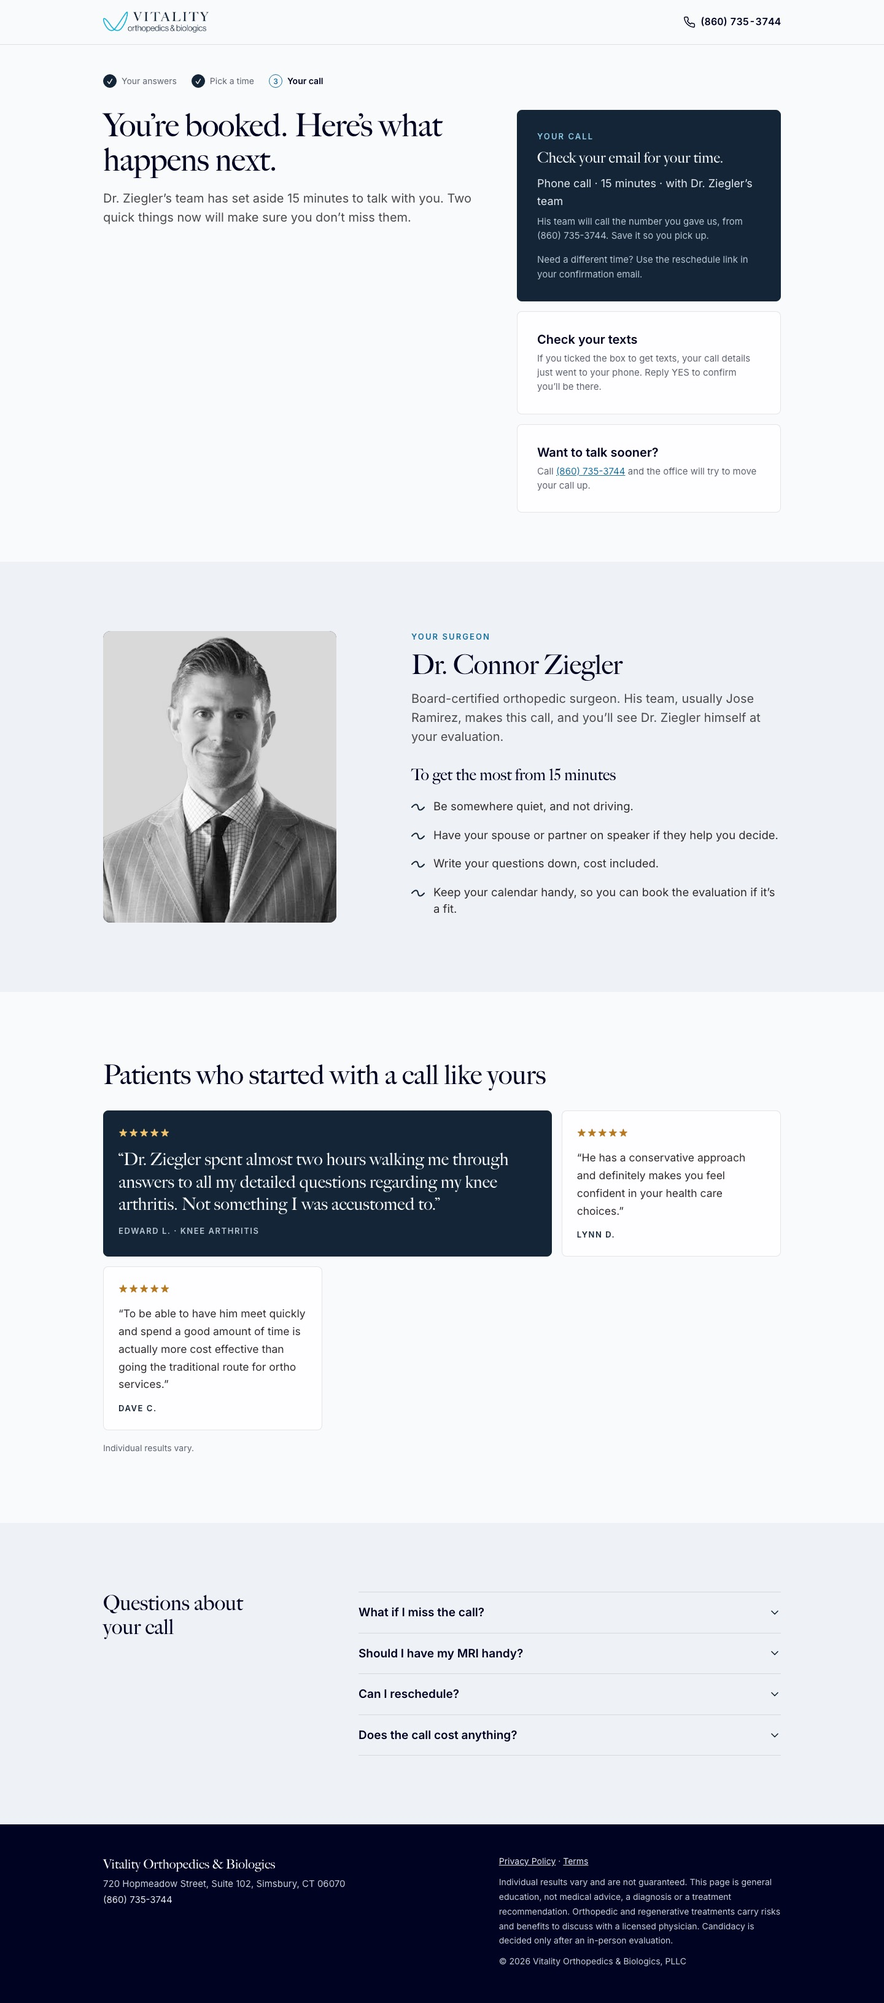
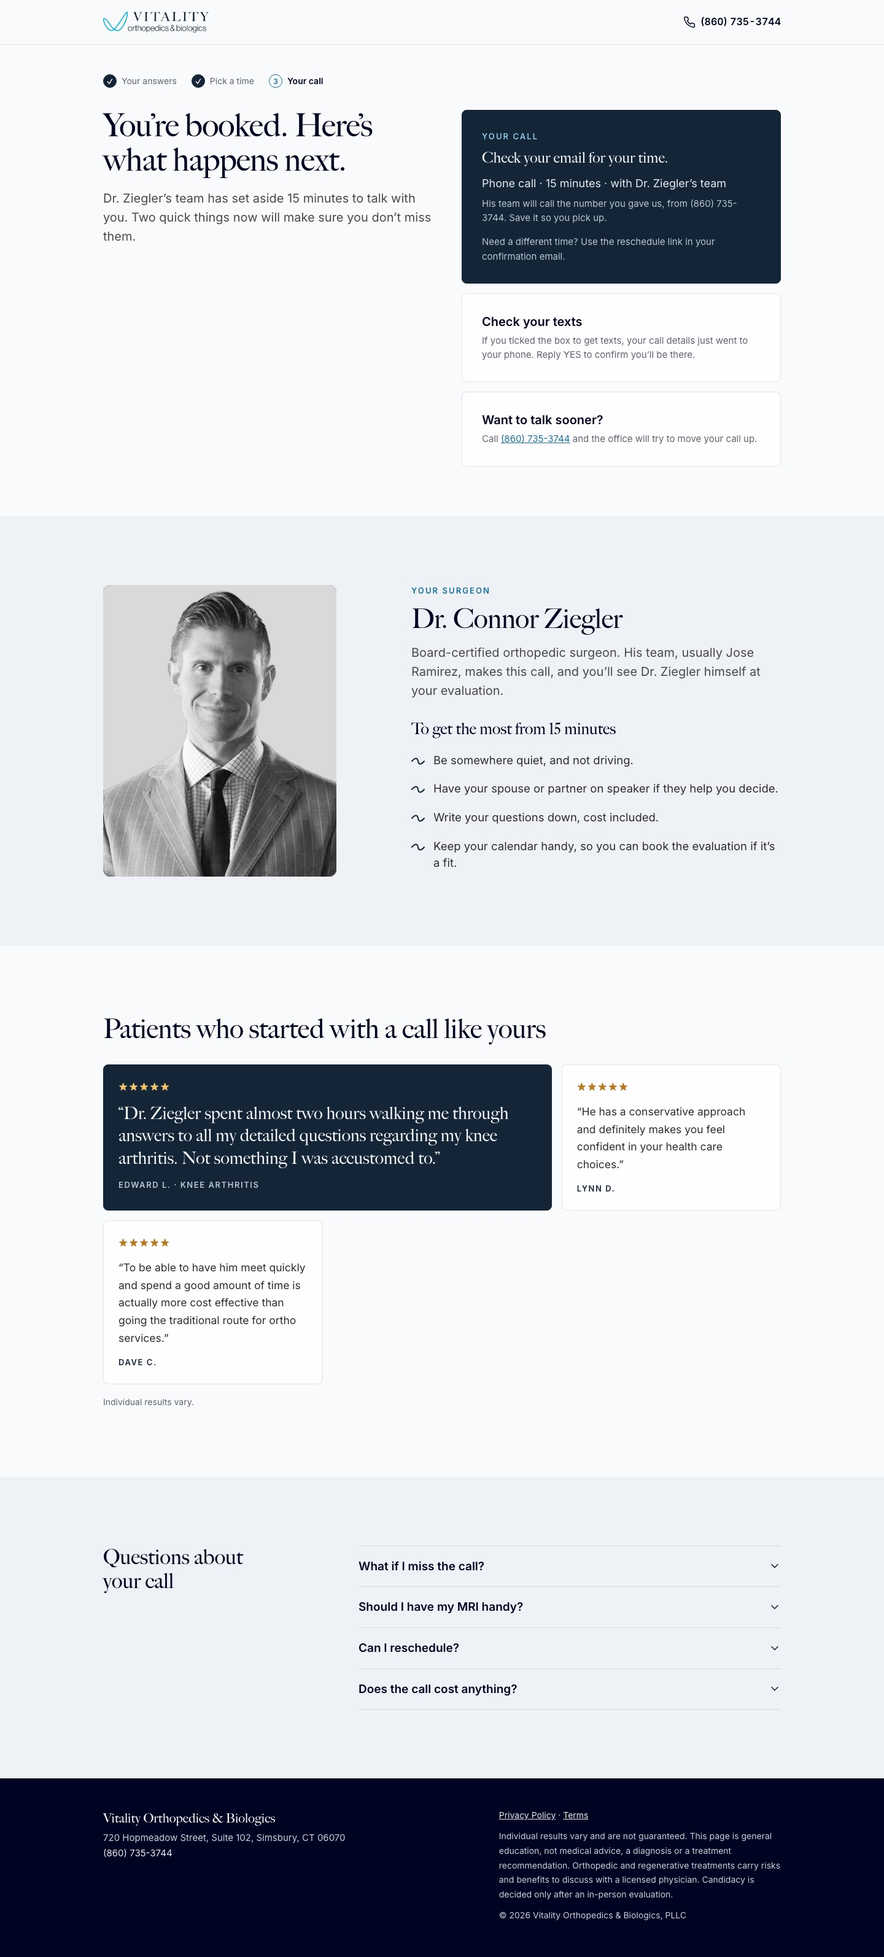
Review copy: matches what is now live
Survey cards and hero as rolled out in GHL: form up beside the headline, whole portrait,
wider survey with a visible progress bar. Same safety checks as before: no live widget,
tracker or webhook request, noindex on every page.

diff --git a/pages/vt-active-life.html b/pages/vt-active-life.html
@@ -172,9 +172,24 @@
   .vt2 .tbl td[data-l]::before{content:attr(data-l);display:block;font-size:12.5px;font-weight:600;letter-spacing:.12em;text-transform:uppercase;color:var(--muted)}
 }
 @media (prefers-reduced-motion:reduce){.vt2 *{transition:none!important;scroll-behavior:auto!important}}
+.vt2 .hero-copy{margin-bottom:clamp(28px,3.2vw,40px)}
+.vt2 #top > .wrap > .split{align-items:flex-start;flex-wrap:nowrap;gap:clamp(32px,4vw,48px)}
+.vt2 #top > .wrap > .split > .c7{flex:1 1 0;min-width:0}
+.vt2 #top > .wrap > .split > .c5{flex:0 0 520px;min-width:0;position:sticky;top:96px}
+.vt2 #top .media:not(:has(.play,video,iframe)){aspect-ratio:1380/1542}
 .vt2 .media:not(:has(.play,video,iframe)){aspect-ratio:4/3}
-.vt2 .media:not(:has(.play,video,iframe)) img{object-position:50% 12%}
-.vt2 #check .c7 > .card{max-width:460px}
+.vt2 .media:not(:has(.play,video,iframe)) img{object-position:50% 14%}
+.vt2 #check .c7 > .card{max-width:520px}
+.vt2 [data-survey] .embed iframe{min-height:380px}
+@media (max-width:980px){
+  .vt2 #top > .wrap > .split{flex-direction:column;flex-wrap:nowrap;align-items:stretch;gap:0}
+  .vt2 #top > .wrap > .split > .c7{display:contents}
+  .vt2 #top > .wrap > .split > .c7 > .hero-copy{order:0;margin-bottom:0}
+  .vt2 #top > .wrap > .split > .c7 > figure{order:2;width:100%;margin:32px 0 0}
+  .vt2 #top > .wrap > .split > .c5{order:1;flex:none;width:100%;max-width:520px;margin:28px auto 0;position:static}
+  .vt2 #top .media:not(:has(.play,video,iframe)){max-width:520px;margin-left:auto;margin-right:auto}
+  .vt2 #check .c7 > .card{margin-left:auto;margin-right:auto}
+}
 </style>
 <div class="vt2" id="vt2-1">
 <header class="hdr">
@@ -188,13 +203,13 @@
 </header>
 <section id="top" style="padding:clamp(36px,5vw,64px) 0 clamp(40px,5vw,64px)">
 <div class="wrap">
-<p class="eyebrow">Regenerative knee and shoulder care · Simsbury, CT</p>
+<div class="split" style="margin-top:clamp(28px,4vw,44px);align-items:flex-start">
+<div class="c7">
+<div class="hero-copy"><p class="eyebrow">Regenerative knee and shoulder care · Simsbury, CT</p>
 <p class="serif pre" style="margin-top:16px" data-v="pre">Tried physical therapy and cortisone, and still hurting?</p>
 <h1 class="serif h1" style="margin-top:10px;max-width:24ch" data-v="h1">Relief from knee and shoulder pain, without surgery.</h1>
 <p class="lede" style="margin-top:20px" data-ifvideo>Dr. Connor Ziegler is a board-certified orthopedic surgeon who treats knees and shoulders both ways, with surgery and without it. Watch him explain his non-surgical care, then see if you’re likely a candidate.</p>
-<p class="lede" style="margin-top:20px" data-novideo hidden>Dr. Connor Ziegler is a board-certified orthopedic surgeon who treats knees and shoulders both ways, with surgery and without it. So he can tell you whether you need an operation at all.</p>
-<div class="split" style="margin-top:clamp(28px,4vw,44px);align-items:flex-start">
-<div class="c7">
+<p class="lede" style="margin-top:20px" data-novideo hidden>Dr. Connor Ziegler is a board-certified orthopedic surgeon who treats knees and shoulders both ways, with surgery and without it. So he can tell you whether you need an operation at all.</p></div>
 <figure>
 <div class="media" data-video="Landing page, regen VSL (Google Doc “Vitality Orthopedics VSLs”)" data-poster="https://assets.cdn.filesafe.space/jiPCbKw8uU8D9i3iQhpb/media/6a7cc45f47c48355a534914c.jpg" data-alt="Dr. Connor Ziegler in his Simsbury office"></div>
 <figcaption class="tiny" style="margin-top:12px">Individual results vary.</figcaption>

diff --git a/pages/vt-move-freely.html b/pages/vt-move-freely.html
@@ -172,9 +172,24 @@
   .vt2 .tbl td[data-l]::before{content:attr(data-l);display:block;font-size:12.5px;font-weight:600;letter-spacing:.12em;text-transform:uppercase;color:var(--muted)}
 }
 @media (prefers-reduced-motion:reduce){.vt2 *{transition:none!important;scroll-behavior:auto!important}}
+.vt2 .hero-copy{margin-bottom:clamp(28px,3.2vw,40px)}
+.vt2 #top > .wrap > .split{align-items:flex-start;flex-wrap:nowrap;gap:clamp(32px,4vw,48px)}
+.vt2 #top > .wrap > .split > .c7{flex:1 1 0;min-width:0}
+.vt2 #top > .wrap > .split > .c5{flex:0 0 520px;min-width:0;position:sticky;top:96px}
+.vt2 #top .media:not(:has(.play,video,iframe)){aspect-ratio:1380/1542}
 .vt2 .media:not(:has(.play,video,iframe)){aspect-ratio:4/3}
-.vt2 .media:not(:has(.play,video,iframe)) img{object-position:50% 12%}
-.vt2 #check .c7 > .card{max-width:460px}
+.vt2 .media:not(:has(.play,video,iframe)) img{object-position:50% 14%}
+.vt2 #check .c7 > .card{max-width:520px}
+.vt2 [data-survey] .embed iframe{min-height:380px}
+@media (max-width:980px){
+  .vt2 #top > .wrap > .split{flex-direction:column;flex-wrap:nowrap;align-items:stretch;gap:0}
+  .vt2 #top > .wrap > .split > .c7{display:contents}
+  .vt2 #top > .wrap > .split > .c7 > .hero-copy{order:0;margin-bottom:0}
+  .vt2 #top > .wrap > .split > .c7 > figure{order:2;width:100%;margin:32px 0 0}
+  .vt2 #top > .wrap > .split > .c5{order:1;flex:none;width:100%;max-width:520px;margin:28px auto 0;position:static}
+  .vt2 #top .media:not(:has(.play,video,iframe)){max-width:520px;margin-left:auto;margin-right:auto}
+  .vt2 #check .c7 > .card{margin-left:auto;margin-right:auto}
+}
 </style>
 <div class="vt2" id="vt2-1">
 <header class="hdr">
@@ -188,13 +203,13 @@
 </header>
 <section id="top" style="padding:clamp(36px,5vw,64px) 0 clamp(40px,5vw,64px)">
 <div class="wrap">
-<p class="eyebrow">Non-surgical knee and shoulder care · Simsbury, CT</p>
+<div class="split" style="margin-top:clamp(28px,4vw,44px);align-items:flex-start">
+<div class="c7">
+<div class="hero-copy"><p class="eyebrow">Non-surgical knee and shoulder care · Simsbury, CT</p>
 <p class="serif pre" style="margin-top:16px" data-v="pre">Tried physical therapy and cortisone, and still hurting?</p>
 <h1 class="serif h1" style="margin-top:10px;max-width:24ch" data-v="h1">Relief from knee and shoulder pain, without surgery.</h1>
 <p class="lede" style="margin-top:20px" data-ifvideo>Dr. Connor Ziegler is a board-certified orthopedic surgeon who treats knees and shoulders both ways, with surgery and without it. Watch him explain his non-surgical care, then see if you’re likely a candidate.</p>
-<p class="lede" style="margin-top:20px" data-novideo hidden>Dr. Connor Ziegler is a board-certified orthopedic surgeon who treats knees and shoulders both ways, with surgery and without it. So he can tell you whether you need an operation at all.</p>
-<div class="split" style="margin-top:clamp(28px,4vw,44px);align-items:flex-start">
-<div class="c7">
+<p class="lede" style="margin-top:20px" data-novideo hidden>Dr. Connor Ziegler is a board-certified orthopedic surgeon who treats knees and shoulders both ways, with surgery and without it. So he can tell you whether you need an operation at all.</p></div>
 <figure>
 <div class="media" data-video="Landing page, regen VSL (Google Doc “Vitality Orthopedics VSLs”)" data-poster="https://assets.cdn.filesafe.space/jiPCbKw8uU8D9i3iQhpb/media/6a7cc45f47c48355a534914c.jpg" data-alt="Dr. Connor Ziegler in his Simsbury office"></div>
 <figcaption class="tiny" style="margin-top:12px">Individual results vary.</figcaption>

diff --git a/pages/vt-expert-care.html b/pages/vt-expert-care.html
@@ -172,9 +172,24 @@
   .vt2 .tbl td[data-l]::before{content:attr(data-l);display:block;font-size:12.5px;font-weight:600;letter-spacing:.12em;text-transform:uppercase;color:var(--muted)}
 }
 @media (prefers-reduced-motion:reduce){.vt2 *{transition:none!important;scroll-behavior:auto!important}}
+.vt2 .hero-copy{margin-bottom:clamp(28px,3.2vw,40px)}
+.vt2 #top > .wrap > .split{align-items:flex-start;flex-wrap:nowrap;gap:clamp(32px,4vw,48px)}
+.vt2 #top > .wrap > .split > .c7{flex:1 1 0;min-width:0}
+.vt2 #top > .wrap > .split > .c5{flex:0 0 520px;min-width:0;position:sticky;top:96px}
+.vt2 #top .media:not(:has(.play,video,iframe)){aspect-ratio:1380/1542}
 .vt2 .media:not(:has(.play,video,iframe)){aspect-ratio:4/3}
-.vt2 .media:not(:has(.play,video,iframe)) img{object-position:50% 12%}
-.vt2 #check .c7 > .card{max-width:460px}
+.vt2 .media:not(:has(.play,video,iframe)) img{object-position:50% 14%}
+.vt2 #check .c7 > .card{max-width:520px}
+.vt2 [data-survey] .embed iframe{min-height:380px}
+@media (max-width:980px){
+  .vt2 #top > .wrap > .split{flex-direction:column;flex-wrap:nowrap;align-items:stretch;gap:0}
+  .vt2 #top > .wrap > .split > .c7{display:contents}
+  .vt2 #top > .wrap > .split > .c7 > .hero-copy{order:0;margin-bottom:0}
+  .vt2 #top > .wrap > .split > .c7 > figure{order:2;width:100%;margin:32px 0 0}
+  .vt2 #top > .wrap > .split > .c5{order:1;flex:none;width:100%;max-width:520px;margin:28px auto 0;position:static}
+  .vt2 #top .media:not(:has(.play,video,iframe)){max-width:520px;margin-left:auto;margin-right:auto}
+  .vt2 #check .c7 > .card{margin-left:auto;margin-right:auto}
+}
 </style>
 <div class="vt2" id="vt2-2">
 <header class="hdr">
@@ -188,13 +203,13 @@
 </header>
 <section id="top" style="padding:clamp(36px,5vw,64px) 0 clamp(40px,5vw,64px)">
 <div class="wrap">
-<p class="eyebrow">Knee and shoulder surgery · Simsbury, CT</p>
+<div class="split" style="margin-top:clamp(28px,4vw,44px);align-items:flex-start">
+<div class="c7">
+<div class="hero-copy"><p class="eyebrow">Knee and shoulder surgery · Simsbury, CT</p>
 <p class="serif pre" style="margin-top:16px" data-v="pre">Told you need knee or shoulder surgery?</p>
 <h1 class="serif h1" style="margin-top:10px;max-width:24ch">Get the best care, not just what insurance will cover.</h1>
 <p class="lede" style="margin-top:20px" data-ifvideo>See Dr. Connor Ziegler, a Steadman-trained orthopedic surgeon, as soon as this week, with your recovery planned before surgery day. You get one flat price up front, with no deductibles or insurance claims.</p>
-<p class="lede" style="margin-top:20px" data-novideo hidden>See Dr. Connor Ziegler, a Steadman-trained orthopedic surgeon, as soon as this week, with your recovery planned before surgery day. You get one flat price up front, with no deductibles or insurance claims.</p>
-<div class="split" style="margin-top:clamp(28px,4vw,44px);align-items:flex-start">
-<div class="c7">
+<p class="lede" style="margin-top:20px" data-novideo hidden>See Dr. Connor Ziegler, a Steadman-trained orthopedic surgeon, as soon as this week, with your recovery planned before surgery day. You get one flat price up front, with no deductibles or insurance claims.</p></div>
 <figure>
 <div class="media" data-video="Landing page, surgery VSL (Google Doc “Vitality Orthopedics VSLs”)" data-poster="https://assets.cdn.filesafe.space/jiPCbKw8uU8D9i3iQhpb/media/6a7cc45f47c48355a534914c.jpg" data-alt="Dr. Connor Ziegler in his Simsbury office"></div>
 <figcaption class="tiny" style="margin-top:12px">Individual results vary.</figcaption>

diff --git a/pages/vt-specialist-care.html b/pages/vt-specialist-care.html
@@ -172,9 +172,24 @@
   .vt2 .tbl td[data-l]::before{content:attr(data-l);display:block;font-size:12.5px;font-weight:600;letter-spacing:.12em;text-transform:uppercase;color:var(--muted)}
 }
 @media (prefers-reduced-motion:reduce){.vt2 *{transition:none!important;scroll-behavior:auto!important}}
+.vt2 .hero-copy{margin-bottom:clamp(28px,3.2vw,40px)}
+.vt2 #top > .wrap > .split{align-items:flex-start;flex-wrap:nowrap;gap:clamp(32px,4vw,48px)}
+.vt2 #top > .wrap > .split > .c7{flex:1 1 0;min-width:0}
+.vt2 #top > .wrap > .split > .c5{flex:0 0 520px;min-width:0;position:sticky;top:96px}
+.vt2 #top .media:not(:has(.play,video,iframe)){aspect-ratio:1380/1542}
 .vt2 .media:not(:has(.play,video,iframe)){aspect-ratio:4/3}
-.vt2 .media:not(:has(.play,video,iframe)) img{object-position:50% 12%}
-.vt2 #check .c7 > .card{max-width:460px}
+.vt2 .media:not(:has(.play,video,iframe)) img{object-position:50% 14%}
+.vt2 #check .c7 > .card{max-width:520px}
+.vt2 [data-survey] .embed iframe{min-height:380px}
+@media (max-width:980px){
+  .vt2 #top > .wrap > .split{flex-direction:column;flex-wrap:nowrap;align-items:stretch;gap:0}
+  .vt2 #top > .wrap > .split > .c7{display:contents}
+  .vt2 #top > .wrap > .split > .c7 > .hero-copy{order:0;margin-bottom:0}
+  .vt2 #top > .wrap > .split > .c7 > figure{order:2;width:100%;margin:32px 0 0}
+  .vt2 #top > .wrap > .split > .c5{order:1;flex:none;width:100%;max-width:520px;margin:28px auto 0;position:static}
+  .vt2 #top .media:not(:has(.play,video,iframe)){max-width:520px;margin-left:auto;margin-right:auto}
+  .vt2 #check .c7 > .card{margin-left:auto;margin-right:auto}
+}
 </style>
 <div class="vt2" id="vt2-2">
 <header class="hdr">
@@ -188,13 +203,13 @@
 </header>
 <section id="top" style="padding:clamp(36px,5vw,64px) 0 clamp(40px,5vw,64px)">
 <div class="wrap">
-<p class="eyebrow">Knee and shoulder surgery · Simsbury, CT</p>
+<div class="split" style="margin-top:clamp(28px,4vw,44px);align-items:flex-start">
+<div class="c7">
+<div class="hero-copy"><p class="eyebrow">Knee and shoulder surgery · Simsbury, CT</p>
 <p class="serif pre" style="margin-top:16px" data-v="pre">Told you need knee or shoulder surgery?</p>
 <h1 class="serif h1" style="margin-top:10px;max-width:24ch">Get the best care, not just what insurance will cover.</h1>
 <p class="lede" style="margin-top:20px" data-ifvideo>See Dr. Connor Ziegler, a Steadman-trained orthopedic surgeon, as soon as this week, with your recovery planned before surgery day. You get one flat price up front, with no deductibles or insurance claims.</p>
-<p class="lede" style="margin-top:20px" data-novideo hidden>See Dr. Connor Ziegler, a Steadman-trained orthopedic surgeon, as soon as this week, with your recovery planned before surgery day. You get one flat price up front, with no deductibles or insurance claims.</p>
-<div class="split" style="margin-top:clamp(28px,4vw,44px);align-items:flex-start">
-<div class="c7">
+<p class="lede" style="margin-top:20px" data-novideo hidden>See Dr. Connor Ziegler, a Steadman-trained orthopedic surgeon, as soon as this week, with your recovery planned before surgery day. You get one flat price up front, with no deductibles or insurance claims.</p></div>
 <figure>
 <div class="media" data-video="Landing page, surgery VSL (Google Doc “Vitality Orthopedics VSLs”)" data-poster="https://assets.cdn.filesafe.space/jiPCbKw8uU8D9i3iQhpb/media/6a7cc45f47c48355a534914c.jpg" data-alt="Dr. Connor Ziegler in his Simsbury office"></div>
 <figcaption class="tiny" style="margin-top:12px">Individual results vary.</figcaption>

diff --git a/pages/vt-guide.html b/pages/vt-guide.html
@@ -172,9 +172,24 @@
   .vt2 .tbl td[data-l]::before{content:attr(data-l);display:block;font-size:12.5px;font-weight:600;letter-spacing:.12em;text-transform:uppercase;color:var(--muted)}
 }
 @media (prefers-reduced-motion:reduce){.vt2 *{transition:none!important;scroll-behavior:auto!important}}
+.vt2 .hero-copy{margin-bottom:clamp(28px,3.2vw,40px)}
+.vt2 #top > .wrap > .split{align-items:flex-start;flex-wrap:nowrap;gap:clamp(32px,4vw,48px)}
+.vt2 #top > .wrap > .split > .c7{flex:1 1 0;min-width:0}
+.vt2 #top > .wrap > .split > .c5{flex:0 0 520px;min-width:0;position:sticky;top:96px}
+.vt2 #top .media:not(:has(.play,video,iframe)){aspect-ratio:1380/1542}
 .vt2 .media:not(:has(.play,video,iframe)){aspect-ratio:4/3}
-.vt2 .media:not(:has(.play,video,iframe)) img{object-position:50% 12%}
-.vt2 #check .c7 > .card{max-width:460px}
+.vt2 .media:not(:has(.play,video,iframe)) img{object-position:50% 14%}
+.vt2 #check .c7 > .card{max-width:520px}
+.vt2 [data-survey] .embed iframe{min-height:380px}
+@media (max-width:980px){
+  .vt2 #top > .wrap > .split{flex-direction:column;flex-wrap:nowrap;align-items:stretch;gap:0}
+  .vt2 #top > .wrap > .split > .c7{display:contents}
+  .vt2 #top > .wrap > .split > .c7 > .hero-copy{order:0;margin-bottom:0}
+  .vt2 #top > .wrap > .split > .c7 > figure{order:2;width:100%;margin:32px 0 0}
+  .vt2 #top > .wrap > .split > .c5{order:1;flex:none;width:100%;max-width:520px;margin:28px auto 0;position:static}
+  .vt2 #top .media:not(:has(.play,video,iframe)){max-width:520px;margin-left:auto;margin-right:auto}
+  .vt2 #check .c7 > .card{margin-left:auto;margin-right:auto}
+}
 </style>
 <div class="vt2" id="vt2-guide">
 <header class="hdr"><div class="wrap hdr-in"><span class="logo"><img src="https://assets.cdn.filesafe.space/jiPCbKw8uU8D9i3iQhpb/media/69d02229811eafe3c1bb15d3.png" alt="Vitality Orthopedics &amp; Biologics" width="172" height="34"></span></div></header>

diff --git a/pages/vt-before-visit.html b/pages/vt-before-visit.html
@@ -172,9 +172,24 @@
   .vt2 .tbl td[data-l]::before{content:attr(data-l);display:block;font-size:12.5px;font-weight:600;letter-spacing:.12em;text-transform:uppercase;color:var(--muted)}
 }
 @media (prefers-reduced-motion:reduce){.vt2 *{transition:none!important;scroll-behavior:auto!important}}
+.vt2 .hero-copy{margin-bottom:clamp(28px,3.2vw,40px)}
+.vt2 #top > .wrap > .split{align-items:flex-start;flex-wrap:nowrap;gap:clamp(32px,4vw,48px)}
+.vt2 #top > .wrap > .split > .c7{flex:1 1 0;min-width:0}
+.vt2 #top > .wrap > .split > .c5{flex:0 0 520px;min-width:0;position:sticky;top:96px}
+.vt2 #top .media:not(:has(.play,video,iframe)){aspect-ratio:1380/1542}
 .vt2 .media:not(:has(.play,video,iframe)){aspect-ratio:4/3}
-.vt2 .media:not(:has(.play,video,iframe)) img{object-position:50% 12%}
-.vt2 #check .c7 > .card{max-width:460px}
+.vt2 .media:not(:has(.play,video,iframe)) img{object-position:50% 14%}
+.vt2 #check .c7 > .card{max-width:520px}
+.vt2 [data-survey] .embed iframe{min-height:380px}
+@media (max-width:980px){
+  .vt2 #top > .wrap > .split{flex-direction:column;flex-wrap:nowrap;align-items:stretch;gap:0}
+  .vt2 #top > .wrap > .split > .c7{display:contents}
+  .vt2 #top > .wrap > .split > .c7 > .hero-copy{order:0;margin-bottom:0}
+  .vt2 #top > .wrap > .split > .c7 > figure{order:2;width:100%;margin:32px 0 0}
+  .vt2 #top > .wrap > .split > .c5{order:1;flex:none;width:100%;max-width:520px;margin:28px auto 0;position:static}
+  .vt2 #top .media:not(:has(.play,video,iframe)){max-width:520px;margin-left:auto;margin-right:auto}
+  .vt2 #check .c7 > .card{margin-left:auto;margin-right:auto}
+}
 </style>
 <div class="vt2" id="vt2-preconsult">
 <header class="hdr">

diff --git a/pages/vt-before-call.html b/pages/vt-before-call.html
@@ -172,9 +172,24 @@
   .vt2 .tbl td[data-l]::before{content:attr(data-l);display:block;font-size:12.5px;font-weight:600;letter-spacing:.12em;text-transform:uppercase;color:var(--muted)}
 }
 @media (prefers-reduced-motion:reduce){.vt2 *{transition:none!important;scroll-behavior:auto!important}}
+.vt2 .hero-copy{margin-bottom:clamp(28px,3.2vw,40px)}
+.vt2 #top > .wrap > .split{align-items:flex-start;flex-wrap:nowrap;gap:clamp(32px,4vw,48px)}
+.vt2 #top > .wrap > .split > .c7{flex:1 1 0;min-width:0}
+.vt2 #top > .wrap > .split > .c5{flex:0 0 520px;min-width:0;position:sticky;top:96px}
+.vt2 #top .media:not(:has(.play,video,iframe)){aspect-ratio:1380/1542}
 .vt2 .media:not(:has(.play,video,iframe)){aspect-ratio:4/3}
-.vt2 .media:not(:has(.play,video,iframe)) img{object-position:50% 12%}
-.vt2 #check .c7 > .card{max-width:460px}
+.vt2 .media:not(:has(.play,video,iframe)) img{object-position:50% 14%}
+.vt2 #check .c7 > .card{max-width:520px}
+.vt2 [data-survey] .embed iframe{min-height:380px}
+@media (max-width:980px){
+  .vt2 #top > .wrap > .split{flex-direction:column;flex-wrap:nowrap;align-items:stretch;gap:0}
+  .vt2 #top > .wrap > .split > .c7{display:contents}
+  .vt2 #top > .wrap > .split > .c7 > .hero-copy{order:0;margin-bottom:0}
+  .vt2 #top > .wrap > .split > .c7 > figure{order:2;width:100%;margin:32px 0 0}
+  .vt2 #top > .wrap > .split > .c5{order:1;flex:none;width:100%;max-width:520px;margin:28px auto 0;position:static}
+  .vt2 #top .media:not(:has(.play,video,iframe)){max-width:520px;margin-left:auto;margin-right:auto}
+  .vt2 #check .c7 > .card{margin-left:auto;margin-right:auto}
+}
 </style>
 <div class="vt2" id="vt2-precall">
 <header class="hdr">

diff --git a/pages/vt-call-confirmed.html b/pages/vt-call-confirmed.html
@@ -172,9 +172,24 @@
   .vt2 .tbl td[data-l]::before{content:attr(data-l);display:block;font-size:12.5px;font-weight:600;letter-spacing:.12em;text-transform:uppercase;color:var(--muted)}
 }
 @media (prefers-reduced-motion:reduce){.vt2 *{transition:none!important;scroll-behavior:auto!important}}
+.vt2 .hero-copy{margin-bottom:clamp(28px,3.2vw,40px)}
+.vt2 #top > .wrap > .split{align-items:flex-start;flex-wrap:nowrap;gap:clamp(32px,4vw,48px)}
+.vt2 #top > .wrap > .split > .c7{flex:1 1 0;min-width:0}
+.vt2 #top > .wrap > .split > .c5{flex:0 0 520px;min-width:0;position:sticky;top:96px}
+.vt2 #top .media:not(:has(.play,video,iframe)){aspect-ratio:1380/1542}
 .vt2 .media:not(:has(.play,video,iframe)){aspect-ratio:4/3}
-.vt2 .media:not(:has(.play,video,iframe)) img{object-position:50% 12%}
-.vt2 #check .c7 > .card{max-width:460px}
+.vt2 .media:not(:has(.play,video,iframe)) img{object-position:50% 14%}
+.vt2 #check .c7 > .card{max-width:520px}
+.vt2 [data-survey] .embed iframe{min-height:380px}
+@media (max-width:980px){
+  .vt2 #top > .wrap > .split{flex-direction:column;flex-wrap:nowrap;align-items:stretch;gap:0}
+  .vt2 #top > .wrap > .split > .c7{display:contents}
+  .vt2 #top > .wrap > .split > .c7 > .hero-copy{order:0;margin-bottom:0}
+  .vt2 #top > .wrap > .split > .c7 > figure{order:2;width:100%;margin:32px 0 0}
+  .vt2 #top > .wrap > .split > .c5{order:1;flex:none;width:100%;max-width:520px;margin:28px auto 0;position:static}
+  .vt2 #top .media:not(:has(.play,video,iframe)){max-width:520px;margin-left:auto;margin-right:auto}
+  .vt2 #check .c7 > .card{margin-left:auto;margin-right:auto}
+}
 </style>
 <div class="vt2" id="vt2-booked">
 <header class="hdr">

diff --git a/pages/vt-book-call.html b/pages/vt-book-call.html
@@ -172,9 +172,24 @@
   .vt2 .tbl td[data-l]::before{content:attr(data-l);display:block;font-size:12.5px;font-weight:600;letter-spacing:.12em;text-transform:uppercase;color:var(--muted)}
 }
 @media (prefers-reduced-motion:reduce){.vt2 *{transition:none!important;scroll-behavior:auto!important}}
+.vt2 .hero-copy{margin-bottom:clamp(28px,3.2vw,40px)}
+.vt2 #top > .wrap > .split{align-items:flex-start;flex-wrap:nowrap;gap:clamp(32px,4vw,48px)}
+.vt2 #top > .wrap > .split > .c7{flex:1 1 0;min-width:0}
+.vt2 #top > .wrap > .split > .c5{flex:0 0 520px;min-width:0;position:sticky;top:96px}
+.vt2 #top .media:not(:has(.play,video,iframe)){aspect-ratio:1380/1542}
 .vt2 .media:not(:has(.play,video,iframe)){aspect-ratio:4/3}
-.vt2 .media:not(:has(.play,video,iframe)) img{object-position:50% 12%}
-.vt2 #check .c7 > .card{max-width:460px}
+.vt2 .media:not(:has(.play,video,iframe)) img{object-position:50% 14%}
+.vt2 #check .c7 > .card{max-width:520px}
+.vt2 [data-survey] .embed iframe{min-height:380px}
+@media (max-width:980px){
+  .vt2 #top > .wrap > .split{flex-direction:column;flex-wrap:nowrap;align-items:stretch;gap:0}
+  .vt2 #top > .wrap > .split > .c7{display:contents}
+  .vt2 #top > .wrap > .split > .c7 > .hero-copy{order:0;margin-bottom:0}
+  .vt2 #top > .wrap > .split > .c7 > figure{order:2;width:100%;margin:32px 0 0}
+  .vt2 #top > .wrap > .split > .c5{order:1;flex:none;width:100%;max-width:520px;margin:28px auto 0;position:static}
+  .vt2 #top .media:not(:has(.play,video,iframe)){max-width:520px;margin-left:auto;margin-right:auto}
+  .vt2 #check .c7 > .card{margin-left:auto;margin-right:auto}
+}
 </style>
 <div class="vt2" id="vt2-book">
 <header class="hdr">
